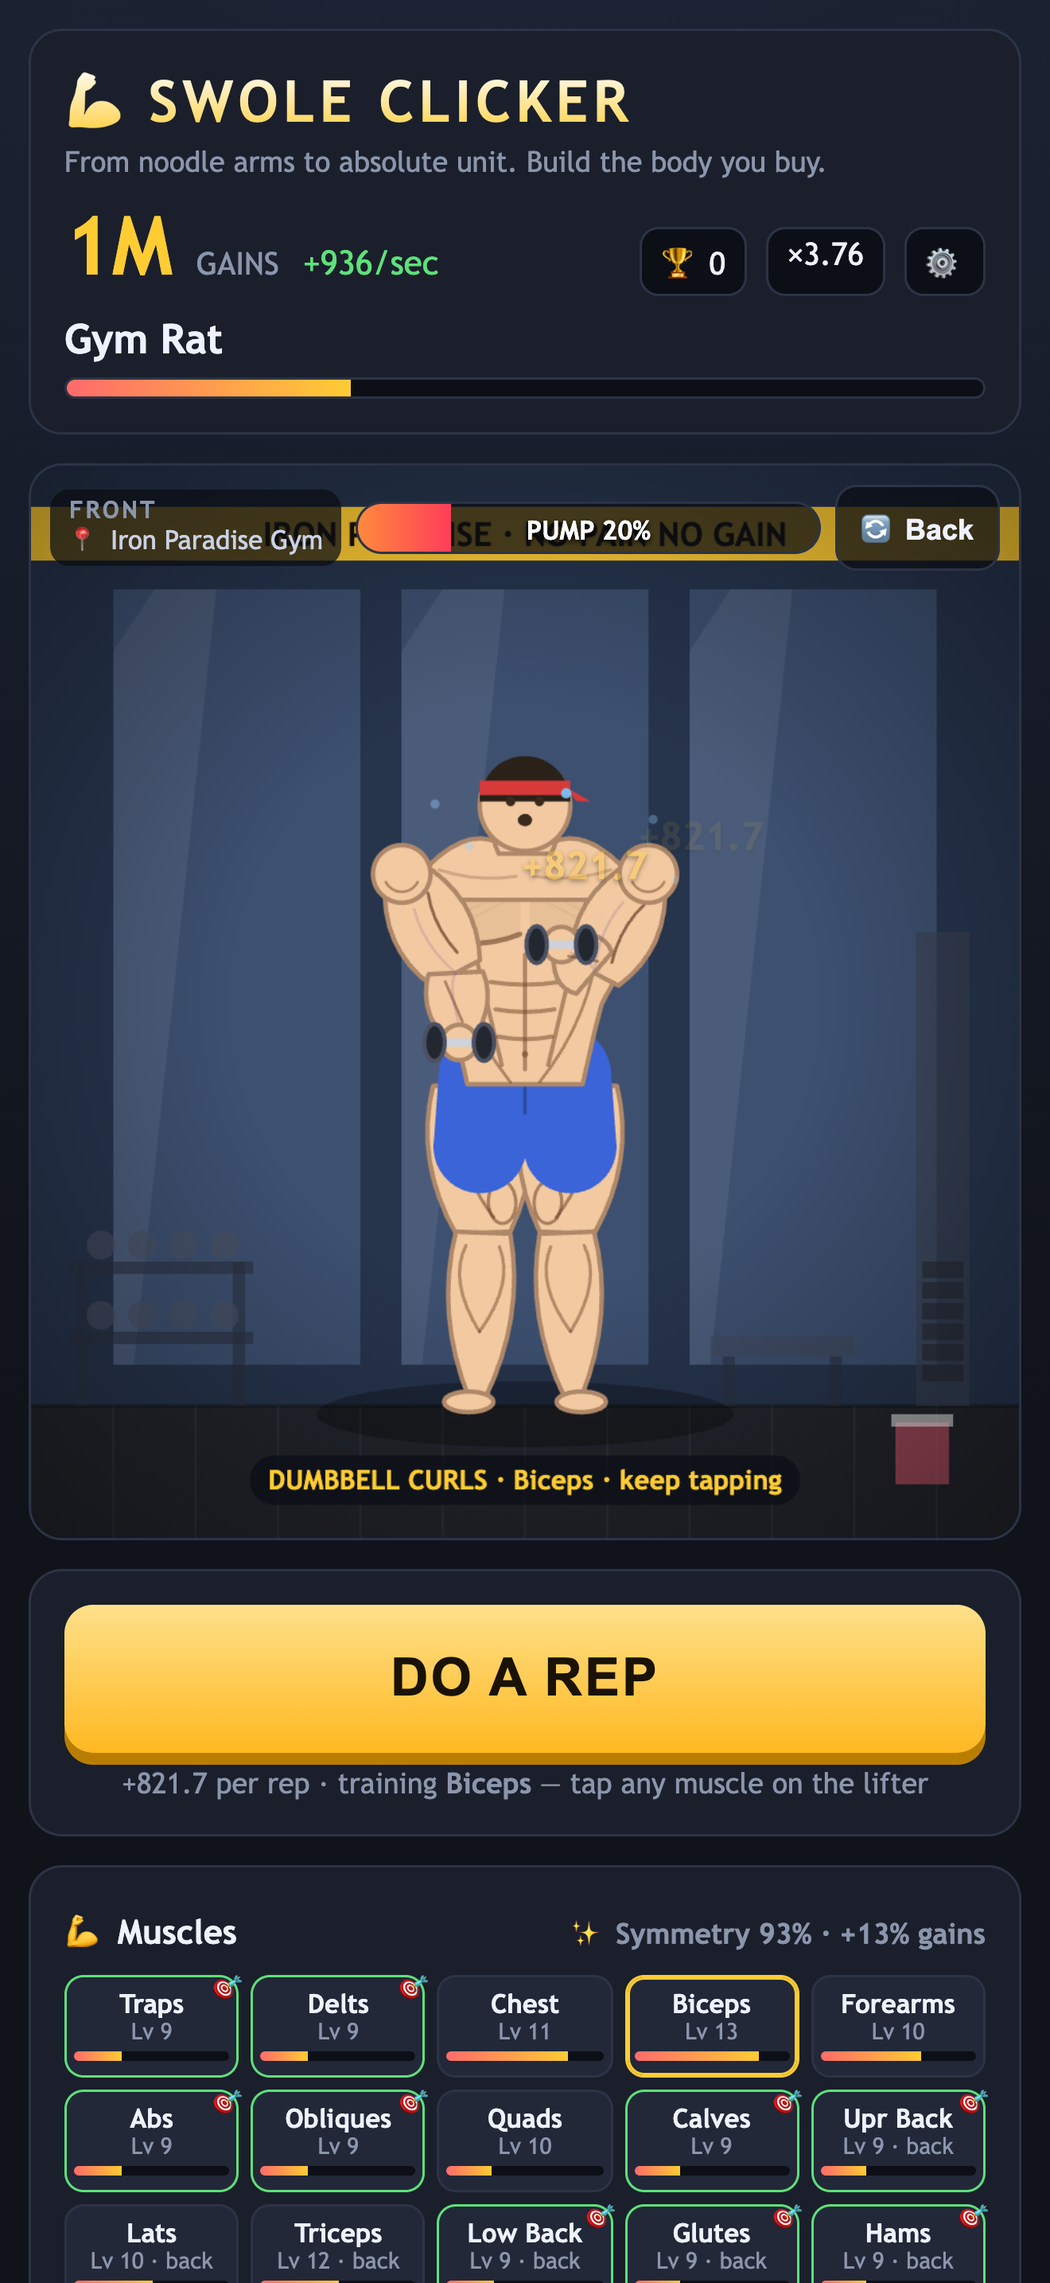
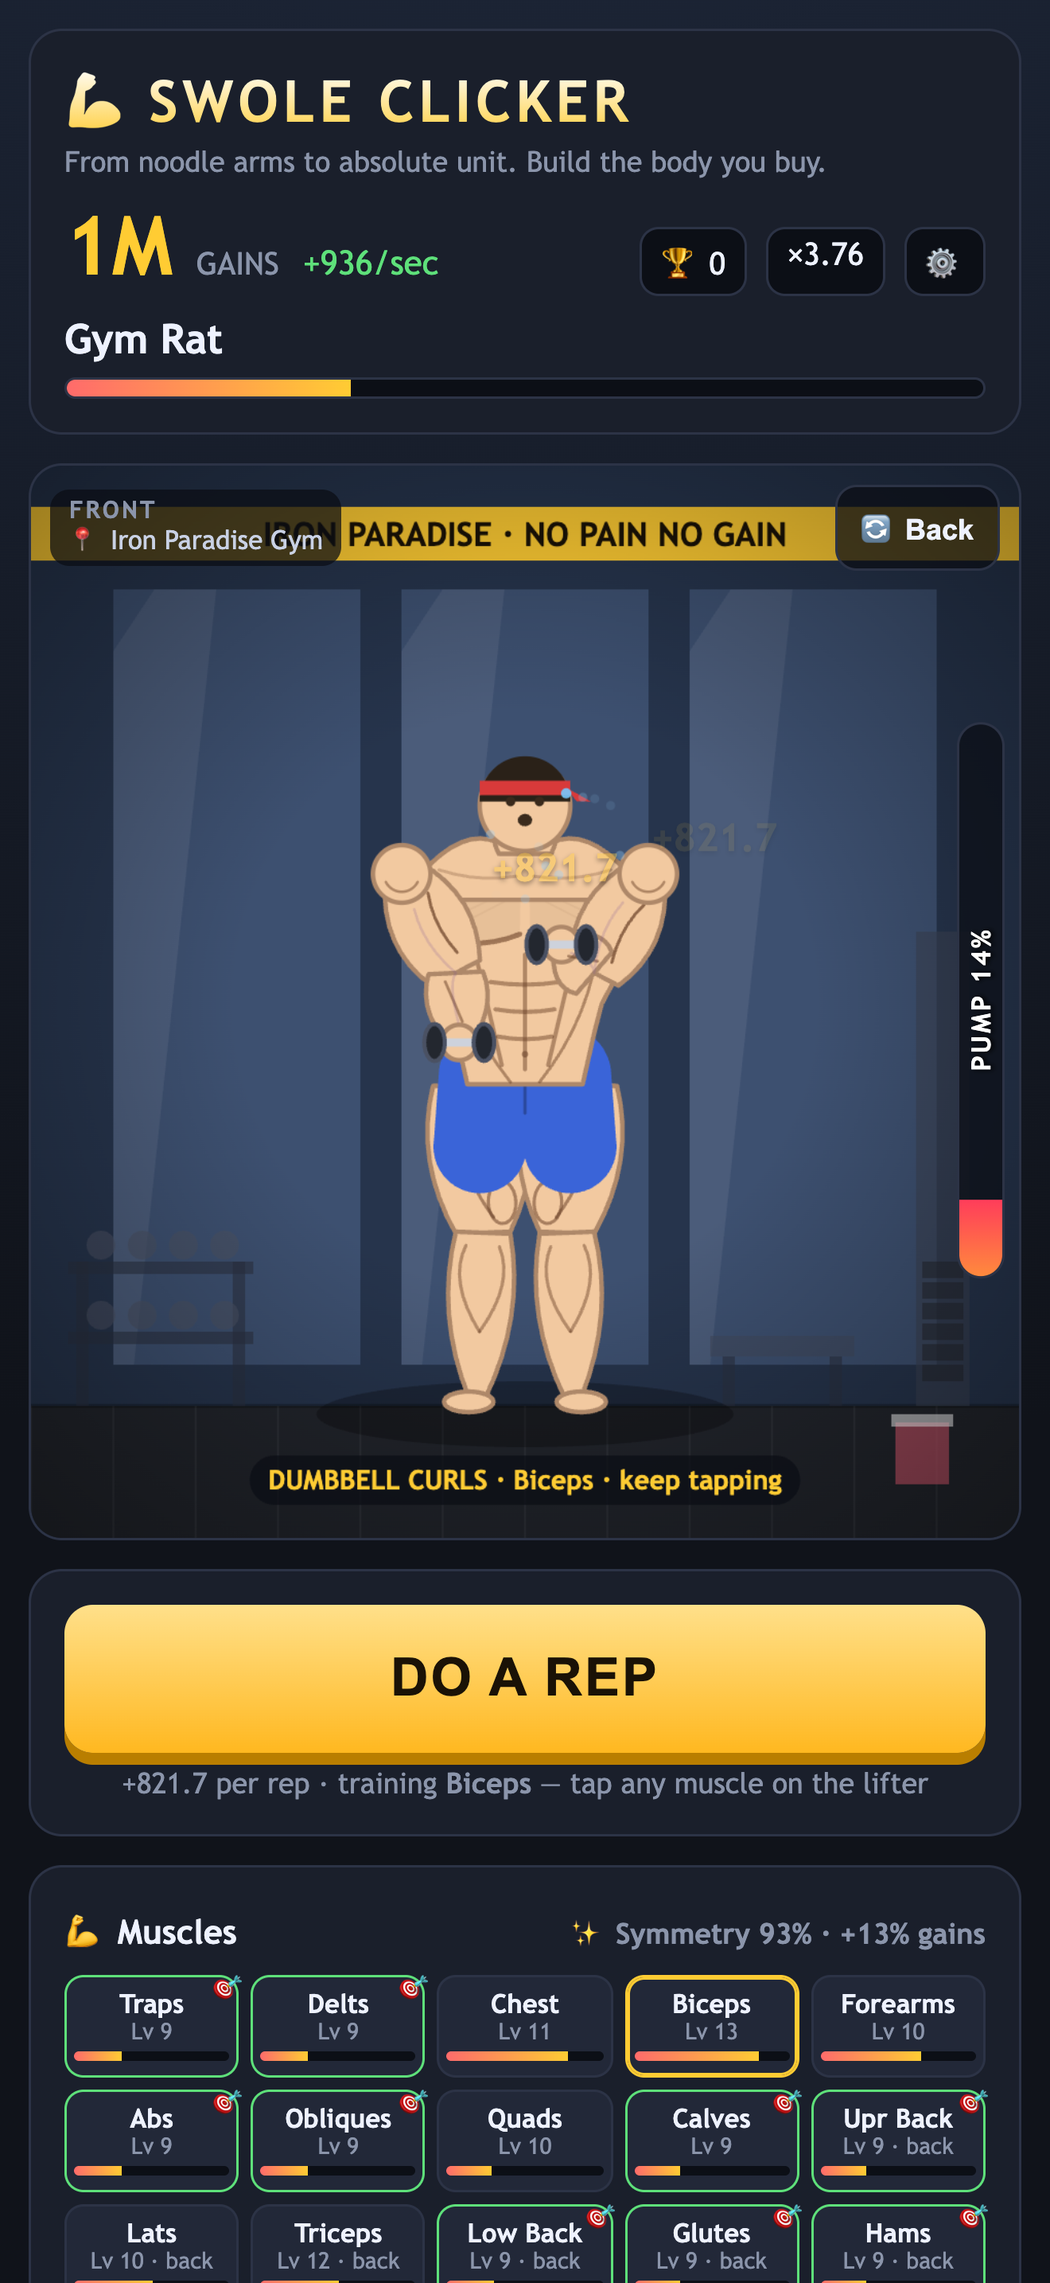
Vertical pump bar; slower pump, 5s Beast Mode
- Pump bar is now vertical on the stage's right edge (fills upward, vertical
  label); HUD row is just view/gym + turn button
- Landscape layouts reserve a strip for the bar so the canvas never sits under
  it; cable machines moved inward; event bubbles avoid the bar, the HUD, the
  boost timers and the bottom labels
- Pump takes ~29 fast reps to fill (was 20; ~20 with Pre-Workout); Beast Mode
  lasts 5s (8s with Stim Stack)
- Verified no overlaps (incl. the lifter in all 39 poses at max size) at
  375x667, 375x812, 440x956, 667x375, 844x390, 874x402 w/ safe areas,
  800x450, 768x1024, 1280x720, 1920x1080

Changed region(s): [[0.9008, 0.3103, 0.9629, 0.5586], [0.3417, 0.2172, 0.7765, 0.2483], [0.4659, 0.3724, 0.6212, 0.4034]]

diff --git a/index.html b/index.html
@@ -51,6 +51,7 @@
     #left > .card:nth-child(3){grid-area:2/1/3/2}
     #left > .card:nth-child(4){grid-area:3/1/4/2; overflow:auto; min-height:0}
     #stage{grid-area:1/2/4/3; min-height:0; display:flex; align-items:center; justify-content:center; background:#0d1017}
+    #game #stage{padding-right:30px!important}   /* strip for the vertical pump bar */
     #stage canvas{width:100%; height:100%; object-fit:contain}
     #right{grid-area:1/3/4/4; max-height:none; min-height:0}
     h1{font-size:21px; letter-spacing:1px}
@@ -200,7 +201,7 @@
   #stage.onstage{position:fixed; inset:0; z-index:110; border-radius:0; display:flex; flex-direction:column; align-items:center; justify-content:center;
     background:radial-gradient(ellipse 45% 70% at 50% 35%, rgba(255,240,190,.28), rgba(0,0,0,0) 70%), #07080c}
   #stage.onstage canvas{width:auto; height:min(62vh,560px); max-width:100vw}
-  #stage.onstage #hud, #stage.onstage #fxbox, #stage.onstage .gymevt{display:none}
+  #stage.onstage #hud, #stage.onstage #pumpbar, #stage.onstage #fxbox, #stage.onstage .gymevt{display:none}
   #stageov{width:100%; max-width:560px; padding:0 14px; text-align:center}
   .stitle{position:fixed; top:14px; left:0; right:0; font-size:22px; font-weight:bold; letter-spacing:3px; color:var(--gold); text-shadow:0 0 18px rgba(255,210,74,.6)}
   .judges{display:flex; gap:10px; justify-content:center; margin-top:8px}
@@ -251,10 +252,13 @@
            border-radius:8px; padding:3px 8px}
   #hudinfo b{font-size:10px; letter-spacing:1px; color:var(--muted)}
   #hudinfo span{font-size:11px; color:#c9d1e4; white-space:nowrap; overflow:hidden; text-overflow:ellipsis}
-  #pumpbar{position:relative; flex:1 1 90px; min-width:64px; max-width:240px; margin:0 auto; height:22px; background:rgba(10,13,20,.72);
-           border:1px solid var(--line); border-radius:11px; overflow:hidden}
-  #pumpbar i{position:absolute; left:0; top:0; bottom:0; width:0; background:linear-gradient(90deg,#ff8a3d,#ff3d5a)}
-  #pumpbar span{position:relative; display:block; text-align:center; font-size:11px; font-weight:bold; line-height:22px; color:#fff; text-shadow:0 1px 2px #000; white-space:nowrap; overflow:hidden; text-overflow:ellipsis; padding:0 4px}
+  #hud{justify-content:space-between}
+  /* vertical pump bar on the stage's right edge, centred between the HUD row and the bottom labels; fills upward */
+  #pumpbar{position:absolute; right:6px; top:50%; transform:translateY(-50%); width:20px; height:min(52%,260px); z-index:2; pointer-events:none;
+           background:rgba(10,13,20,.72); border:1px solid var(--line); border-radius:12px; overflow:hidden}
+  #pumpbar i{position:absolute; left:0; right:0; bottom:0; height:0; background:linear-gradient(0deg,#ff8a3d,#ff3d5a)}
+  #pumpbar span{position:absolute; inset:0; display:flex; align-items:center; justify-content:center; writing-mode:vertical-rl; transform:rotate(180deg);
+                font-size:11px; font-weight:bold; letter-spacing:1px; color:#fff; text-shadow:0 1px 2px #000; white-space:nowrap; overflow:hidden}
   #stage.beast{box-shadow:0 0 0 2px #ff3d5a, 0 0 28px rgba(255,61,90,.55)}
   #stage.beast #pumpbar{border-color:#ff3d5a}
   #fxbox{position:absolute; left:10px; top:46px; display:flex; flex-direction:column; align-items:flex-start; gap:4px; z-index:2; pointer-events:none}   /* active boosts sit under the HUD bar */
@@ -407,9 +411,9 @@
       <canvas id="c"></canvas>
       <div id="hud">
         <div id="hudinfo"><b id="hudview">FRONT</b><span id="hudgym"></span></div>
-        <div id="pumpbar"><i id="pumpfill"></i><span id="pumplabel">PUMP</span></div>
         <button id="turnbtn" class="stagebtn">🔄 Back</button>
       </div>
+      <div id="pumpbar"><i id="pumpfill"></i><span id="pumplabel">PUMP</span></div>
       <div id="fxbox"></div>
       <div id="floatwrap"></div>
     </div>
@@ -636,7 +640,7 @@ const UPGRADES = [
   {id:'weak1',  emoji:'🎯', name:'Weak-Point Specialist',cost:5e8,desc:'Weak-point reps ×3 instead of ×2', req:s=>musStats().avg>=15, reqtxt:'Average muscle Lv 15'},
   {id:'sleep1', emoji:'😴', name:'Sleep Gains',      cost:1e6,  desc:'Offline earnings 50% → 75%',  req:s=>s.playtime>=3600,   reqtxt:'Play for 1 hour'},
   {id:'pre1',   emoji:'☕', name:'Pre-Workout',       cost:2e5,  desc:'Pump meter fills 50% faster', req:s=>(s.beastCount||0)>=3,  reqtxt:'Go Beast Mode 3 times'},
-  {id:'pre2',   emoji:'💥', name:'Stim Stack',        cost:5e8,  desc:'Beast Mode lasts 15s instead of 10s', req:s=>(s.beastCount||0)>=25, reqtxt:'Go Beast Mode 25 times'},
+  {id:'pre2',   emoji:'💥', name:'Stim Stack',        cost:5e8,  desc:'Beast Mode lasts 8s instead of 5s', req:s=>(s.beastCount||0)>=25, reqtxt:'Go Beast Mode 25 times'},
   {id:'event1', emoji:'📣', name:'Gym Regular',       cost:3e6,  desc:'Gym events show up twice as often', req:s=>(s.eventsClicked||0)>=5, reqtxt:'Catch 5 gym events'},
   {id:'sleep2', emoji:'🛌', name:'Growth-Hormone Naps',cost:1e10,desc:'Offline earnings 75% → 100%', req:s=>s.playtime>=5*3600, reqtxt:'Play for 5 hours'},
 ];
@@ -1877,8 +1881,8 @@ function openShare(){
 // fast tapping fills the meter; when full you go Beast Mode (reps ×5) until it drains
 let pumpMeter=0, beastT=0, lastRepAt=0;
 const BEAST_MULT=5;
-function beastLen(){ return state.upgrades.pre2?15:10; }
-function pumpFill(){ return state.upgrades.pre1?0.075:0.05; }
+function beastLen(){ return state.upgrades.pre2?8:5; }
+function pumpFill(){ return state.upgrades.pre1?0.05:0.035; }   // ~29 fast reps to fill (~20 with Pre-Workout)
 function startBeast(){
   beastT=beastLen(); pumpMeter=1; state.beastCount=(state.beastCount||0)+1; questProgress('beast',1);
   toast(`😤 <b>BEAST MODE!</b> Reps ×${BEAST_MULT} for ${beastT}s`); sfx('beast'); haptic(60); shakeStage();
@@ -1887,8 +1891,8 @@ function startBeast(){
 function tickPump(dt){
   if(beastT>0){ beastT=Math.max(0,beastT-dt); pumpMeter=beastT/beastLen(); if(beastT<=0){ pumpMeter=0; $('stage').classList.remove('beast'); } }
   else if(performance.now()-lastRepAt>800) pumpMeter=Math.max(0,pumpMeter-dt*0.25);
-  const bar=$('pumpfill'); if(bar){ bar.style.width=(pumpMeter*100).toFixed(1)+'%'; }
-  const lab=$('pumplabel'); if(lab) lab.textContent=beastT>0?`😤 BEAST ${Math.ceil(beastT)}s`:(pumpMeter>0.02?'PUMP '+Math.round(pumpMeter*100)+'%':'PUMP');
+  const bar=$('pumpfill'); if(bar){ bar.style.height=(pumpMeter*100).toFixed(1)+'%'; }
+  const lab=$('pumplabel'); if(lab) lab.textContent=beastT>0?`BEAST ${Math.ceil(beastT)}s`:(pumpMeter>0.02?'PUMP '+Math.round(pumpMeter*100)+'%':'PUMP');
 }
 
 //////////////////// GYM EVENTS ////////////////////
@@ -1907,9 +1911,18 @@ function spawnEvent(){
   const tot=EVENTS.reduce((a,e)=>a+e.w,0); let r=Math.random()*tot, ev=EVENTS[0];
   for(const e of EVENTS){ r-=e.w; if(r<=0){ ev=e; break; } }
   evtEl=document.createElement('div'); evtEl.className='gymevt'; evtEl.innerHTML=`<span>${ev.emoji}</span><b>${ev.name}</b>`;
-  evtEl.style.left=(8+Math.random()*58)+'%'; evtEl.style.top=(22+Math.random()*48)+'%';
   bindTap(evtEl,()=>{ if(!evtEl) return; evtEl.remove(); evtEl=null; triggerEvent(ev); });
-  $('stage').appendChild(evtEl); evtLife=9;
+  const st=$('stage'); evtEl.style.visibility='hidden'; st.appendChild(evtEl);
+  const W=st.clientWidth, H=st.clientHeight, w=evtEl.offsetWidth, h=evtEl.offsetHeight;
+  // stay above the canvas' bottom labels (exercise name + hover label, from CH-72 down)
+  const sr=st.getBoundingClientRect(), cr=cv.getBoundingClientRect(), k=Math.min(cr.width/CW, cr.height/CH);
+  const labelsTop=(cr.top-sr.top)+(cr.height-CH*k)/2+(CH-72)*k;
+  const maxL=Math.max(8, W-w-36), minT=Math.max(56, H*0.22), maxT=Math.max(minT, Math.min(H*0.7, labelsTop-h-6));  // 36px = pump bar strip
+  let L=8+Math.random()*(maxL-8), T=minT+Math.random()*(maxT-minT);
+  const fxR=190, fxB=46+4*26;                        // reserved for up to four active-boost chips under the HUD
+  if(L<fxR && T<fxB){ if(maxL>=fxR) L=fxR+Math.random()*(maxL-fxR); else T=Math.min(Math.max(T,fxB),Math.max(fxB,maxT)); }
+  evtEl.style.left=L+'px'; evtEl.style.top=T+'px'; evtEl.style.visibility='';
+  evtLife=9;
 }
 function triggerEvent(ev){
   state.eventsClicked=(state.eventsClicked||0)+1; questProgress('event',1); sfx('event');
@@ -2799,7 +2812,7 @@ const EX={
   flyes:{name:'Cable Crossovers',sp:4.5,pose(J,m,ph,o){ const cx=CXC;
     J.hL={x:lerp(J.sL.x-88,cx-12,ph),y:lerp(SY+6,SY+62,ph)}; J.hR={x:lerp(J.sR.x+88,cx+12,ph),y:lerp(SY+6,SY+62,ph)};
     J.eL=ik(J.sL,J.hL,UA,FA,{x:-0.3,y:-1}); J.eR=ik(J.sR,J.hR,UA,FA,{x:0.3,y:-1});
-    o.back=()=>{ drawCableStack(cx-222); drawCableStack(cx+222); cableLine(cx-222,40,J.hL.x,J.hL.y); cableLine(cx+222,40,J.hR.x,J.hR.y); };
+    o.back=()=>{ drawCableStack(cx-185); drawCableStack(cx+185); cableLine(cx-185,40,J.hL.x,J.hL.y); cableLine(cx+185,40,J.hR.x,J.hR.y); };
     o.front=()=>{ drawHandle(J.hL.x,J.hL.y); drawHandle(J.hR.x,J.hR.y); }; }},
   // biceps
   curls:{name:'Dumbbell Curls',sp:7,pose(J,m,ph,o){ const cx=CXC, eY=SY+50;
@@ -2854,7 +2867,7 @@ const EX={
     const h={x:lerp(cx+46,cx-42,ph),y:lerp(SY-56,J.hipL.y+12,ph)};
     J.hL={x:h.x-6,y:h.y+2}; J.hR={x:h.x+6,y:h.y-2};
     J.eL=ik(J.sL,J.hL,UA,FA,{x:0,y:1}); J.eR=ik(J.sR,J.hR,UA,FA,{x:0,y:1});
-    o.back=()=>{ drawCableStack(cx+222); cableLine(cx+222,40,h.x,h.y); };
+    o.back=()=>{ drawCableStack(cx+185); cableLine(cx+185,40,h.x,h.y); };
     o.front=()=>drawHandle(h.x,h.y); }},
   // quads
   squat:{name:'Barbell Squats',sp:5,pose(J,m,ph,o){ const cx=CXC, drop=ph*48;

diff --git a/ios/SwoleClicker/Web/index.html b/ios/SwoleClicker/Web/index.html
@@ -35,6 +35,7 @@
     #left > .card:nth-child(3){grid-area:2/1/3/2}
     #left > .card:nth-child(4){grid-area:3/1/4/2; overflow:auto; min-height:0}
     #stage{grid-area:1/2/4/3; min-height:0; display:flex; align-items:center; justify-content:center; background:#0d1017}
+    #game #stage{padding-right:30px!important}   /* strip for the vertical pump bar */
     #stage canvas{width:100%; height:100%; object-fit:contain}
     #right{grid-area:1/3/4/4; max-height:none; min-height:0}
     h1{font-size:21px; letter-spacing:1px}
@@ -184,7 +185,7 @@
   #stage.onstage{position:fixed; inset:0; z-index:110; border-radius:0; display:flex; flex-direction:column; align-items:center; justify-content:center;
     background:radial-gradient(ellipse 45% 70% at 50% 35%, rgba(255,240,190,.28), rgba(0,0,0,0) 70%), #07080c}
   #stage.onstage canvas{width:auto; height:min(62vh,560px); max-width:100vw}
-  #stage.onstage #hud, #stage.onstage #fxbox, #stage.onstage .gymevt{display:none}
+  #stage.onstage #hud, #stage.onstage #pumpbar, #stage.onstage #fxbox, #stage.onstage .gymevt{display:none}
   #stageov{width:100%; max-width:560px; padding:0 14px; text-align:center}
   .stitle{position:fixed; top:14px; left:0; right:0; font-size:22px; font-weight:bold; letter-spacing:3px; color:var(--gold); text-shadow:0 0 18px rgba(255,210,74,.6)}
   .judges{display:flex; gap:10px; justify-content:center; margin-top:8px}
@@ -235,10 +236,13 @@
            border-radius:8px; padding:3px 8px}
   #hudinfo b{font-size:10px; letter-spacing:1px; color:var(--muted)}
   #hudinfo span{font-size:11px; color:#c9d1e4; white-space:nowrap; overflow:hidden; text-overflow:ellipsis}
-  #pumpbar{position:relative; flex:1 1 90px; min-width:64px; max-width:240px; margin:0 auto; height:22px; background:rgba(10,13,20,.72);
-           border:1px solid var(--line); border-radius:11px; overflow:hidden}
-  #pumpbar i{position:absolute; left:0; top:0; bottom:0; width:0; background:linear-gradient(90deg,#ff8a3d,#ff3d5a)}
-  #pumpbar span{position:relative; display:block; text-align:center; font-size:11px; font-weight:bold; line-height:22px; color:#fff; text-shadow:0 1px 2px #000; white-space:nowrap; overflow:hidden; text-overflow:ellipsis; padding:0 4px}
+  #hud{justify-content:space-between}
+  /* vertical pump bar on the stage's right edge, centred between the HUD row and the bottom labels; fills upward */
+  #pumpbar{position:absolute; right:6px; top:50%; transform:translateY(-50%); width:20px; height:min(52%,260px); z-index:2; pointer-events:none;
+           background:rgba(10,13,20,.72); border:1px solid var(--line); border-radius:12px; overflow:hidden}
+  #pumpbar i{position:absolute; left:0; right:0; bottom:0; height:0; background:linear-gradient(0deg,#ff8a3d,#ff3d5a)}
+  #pumpbar span{position:absolute; inset:0; display:flex; align-items:center; justify-content:center; writing-mode:vertical-rl; transform:rotate(180deg);
+                font-size:11px; font-weight:bold; letter-spacing:1px; color:#fff; text-shadow:0 1px 2px #000; white-space:nowrap; overflow:hidden}
   #stage.beast{box-shadow:0 0 0 2px #ff3d5a, 0 0 28px rgba(255,61,90,.55)}
   #stage.beast #pumpbar{border-color:#ff3d5a}
   #fxbox{position:absolute; left:10px; top:46px; display:flex; flex-direction:column; align-items:flex-start; gap:4px; z-index:2; pointer-events:none}   /* active boosts sit under the HUD bar */
@@ -391,9 +395,9 @@
       <canvas id="c"></canvas>
       <div id="hud">
         <div id="hudinfo"><b id="hudview">FRONT</b><span id="hudgym"></span></div>
-        <div id="pumpbar"><i id="pumpfill"></i><span id="pumplabel">PUMP</span></div>
         <button id="turnbtn" class="stagebtn">🔄 Back</button>
       </div>
+      <div id="pumpbar"><i id="pumpfill"></i><span id="pumplabel">PUMP</span></div>
       <div id="fxbox"></div>
       <div id="floatwrap"></div>
     </div>
@@ -620,7 +624,7 @@ const UPGRADES = [
   {id:'weak1',  emoji:'🎯', name:'Weak-Point Specialist',cost:5e8,desc:'Weak-point reps ×3 instead of ×2', req:s=>musStats().avg>=15, reqtxt:'Average muscle Lv 15'},
   {id:'sleep1', emoji:'😴', name:'Sleep Gains',      cost:1e6,  desc:'Offline earnings 50% → 75%',  req:s=>s.playtime>=3600,   reqtxt:'Play for 1 hour'},
   {id:'pre1',   emoji:'☕', name:'Pre-Workout',       cost:2e5,  desc:'Pump meter fills 50% faster', req:s=>(s.beastCount||0)>=3,  reqtxt:'Go Beast Mode 3 times'},
-  {id:'pre2',   emoji:'💥', name:'Stim Stack',        cost:5e8,  desc:'Beast Mode lasts 15s instead of 10s', req:s=>(s.beastCount||0)>=25, reqtxt:'Go Beast Mode 25 times'},
+  {id:'pre2',   emoji:'💥', name:'Stim Stack',        cost:5e8,  desc:'Beast Mode lasts 8s instead of 5s', req:s=>(s.beastCount||0)>=25, reqtxt:'Go Beast Mode 25 times'},
   {id:'event1', emoji:'📣', name:'Gym Regular',       cost:3e6,  desc:'Gym events show up twice as often', req:s=>(s.eventsClicked||0)>=5, reqtxt:'Catch 5 gym events'},
   {id:'sleep2', emoji:'🛌', name:'Growth-Hormone Naps',cost:1e10,desc:'Offline earnings 75% → 100%', req:s=>s.playtime>=5*3600, reqtxt:'Play for 5 hours'},
 ];
@@ -1861,8 +1865,8 @@ function openShare(){
 // fast tapping fills the meter; when full you go Beast Mode (reps ×5) until it drains
 let pumpMeter=0, beastT=0, lastRepAt=0;
 const BEAST_MULT=5;
-function beastLen(){ return state.upgrades.pre2?15:10; }
-function pumpFill(){ return state.upgrades.pre1?0.075:0.05; }
+function beastLen(){ return state.upgrades.pre2?8:5; }
+function pumpFill(){ return state.upgrades.pre1?0.05:0.035; }   // ~29 fast reps to fill (~20 with Pre-Workout)
 function startBeast(){
   beastT=beastLen(); pumpMeter=1; state.beastCount=(state.beastCount||0)+1; questProgress('beast',1);
   toast(`😤 <b>BEAST MODE!</b> Reps ×${BEAST_MULT} for ${beastT}s`); sfx('beast'); haptic(60); shakeStage();
@@ -1871,8 +1875,8 @@ function startBeast(){
 function tickPump(dt){
   if(beastT>0){ beastT=Math.max(0,beastT-dt); pumpMeter=beastT/beastLen(); if(beastT<=0){ pumpMeter=0; $('stage').classList.remove('beast'); } }
   else if(performance.now()-lastRepAt>800) pumpMeter=Math.max(0,pumpMeter-dt*0.25);
-  const bar=$('pumpfill'); if(bar){ bar.style.width=(pumpMeter*100).toFixed(1)+'%'; }
-  const lab=$('pumplabel'); if(lab) lab.textContent=beastT>0?`😤 BEAST ${Math.ceil(beastT)}s`:(pumpMeter>0.02?'PUMP '+Math.round(pumpMeter*100)+'%':'PUMP');
+  const bar=$('pumpfill'); if(bar){ bar.style.height=(pumpMeter*100).toFixed(1)+'%'; }
+  const lab=$('pumplabel'); if(lab) lab.textContent=beastT>0?`BEAST ${Math.ceil(beastT)}s`:(pumpMeter>0.02?'PUMP '+Math.round(pumpMeter*100)+'%':'PUMP');
 }
 
 //////////////////// GYM EVENTS ////////////////////
@@ -1891,9 +1895,18 @@ function spawnEvent(){
   const tot=EVENTS.reduce((a,e)=>a+e.w,0); let r=Math.random()*tot, ev=EVENTS[0];
   for(const e of EVENTS){ r-=e.w; if(r<=0){ ev=e; break; } }
   evtEl=document.createElement('div'); evtEl.className='gymevt'; evtEl.innerHTML=`<span>${ev.emoji}</span><b>${ev.name}</b>`;
-  evtEl.style.left=(8+Math.random()*58)+'%'; evtEl.style.top=(22+Math.random()*48)+'%';
   bindTap(evtEl,()=>{ if(!evtEl) return; evtEl.remove(); evtEl=null; triggerEvent(ev); });
-  $('stage').appendChild(evtEl); evtLife=9;
+  const st=$('stage'); evtEl.style.visibility='hidden'; st.appendChild(evtEl);
+  const W=st.clientWidth, H=st.clientHeight, w=evtEl.offsetWidth, h=evtEl.offsetHeight;
+  // stay above the canvas' bottom labels (exercise name + hover label, from CH-72 down)
+  const sr=st.getBoundingClientRect(), cr=cv.getBoundingClientRect(), k=Math.min(cr.width/CW, cr.height/CH);
+  const labelsTop=(cr.top-sr.top)+(cr.height-CH*k)/2+(CH-72)*k;
+  const maxL=Math.max(8, W-w-36), minT=Math.max(56, H*0.22), maxT=Math.max(minT, Math.min(H*0.7, labelsTop-h-6));  // 36px = pump bar strip
+  let L=8+Math.random()*(maxL-8), T=minT+Math.random()*(maxT-minT);
+  const fxR=190, fxB=46+4*26;                        // reserved for up to four active-boost chips under the HUD
+  if(L<fxR && T<fxB){ if(maxL>=fxR) L=fxR+Math.random()*(maxL-fxR); else T=Math.min(Math.max(T,fxB),Math.max(fxB,maxT)); }
+  evtEl.style.left=L+'px'; evtEl.style.top=T+'px'; evtEl.style.visibility='';
+  evtLife=9;
 }
 function triggerEvent(ev){
   state.eventsClicked=(state.eventsClicked||0)+1; questProgress('event',1); sfx('event');
@@ -2783,7 +2796,7 @@ const EX={
   flyes:{name:'Cable Crossovers',sp:4.5,pose(J,m,ph,o){ const cx=CXC;
     J.hL={x:lerp(J.sL.x-88,cx-12,ph),y:lerp(SY+6,SY+62,ph)}; J.hR={x:lerp(J.sR.x+88,cx+12,ph),y:lerp(SY+6,SY+62,ph)};
     J.eL=ik(J.sL,J.hL,UA,FA,{x:-0.3,y:-1}); J.eR=ik(J.sR,J.hR,UA,FA,{x:0.3,y:-1});
-    o.back=()=>{ drawCableStack(cx-222); drawCableStack(cx+222); cableLine(cx-222,40,J.hL.x,J.hL.y); cableLine(cx+222,40,J.hR.x,J.hR.y); };
+    o.back=()=>{ drawCableStack(cx-185); drawCableStack(cx+185); cableLine(cx-185,40,J.hL.x,J.hL.y); cableLine(cx+185,40,J.hR.x,J.hR.y); };
     o.front=()=>{ drawHandle(J.hL.x,J.hL.y); drawHandle(J.hR.x,J.hR.y); }; }},
   // biceps
   curls:{name:'Dumbbell Curls',sp:7,pose(J,m,ph,o){ const cx=CXC, eY=SY+50;
@@ -2838,7 +2851,7 @@ const EX={
     const h={x:lerp(cx+46,cx-42,ph),y:lerp(SY-56,J.hipL.y+12,ph)};
     J.hL={x:h.x-6,y:h.y+2}; J.hR={x:h.x+6,y:h.y-2};
     J.eL=ik(J.sL,J.hL,UA,FA,{x:0,y:1}); J.eR=ik(J.sR,J.hR,UA,FA,{x:0,y:1});
-    o.back=()=>{ drawCableStack(cx+222); cableLine(cx+222,40,h.x,h.y); };
+    o.back=()=>{ drawCableStack(cx+185); cableLine(cx+185,40,h.x,h.y); };
     o.front=()=>drawHandle(h.x,h.y); }},
   // quads
   squat:{name:'Barbell Squats',sp:5,pose(J,m,ph,o){ const cx=CXC, drop=ph*48;
